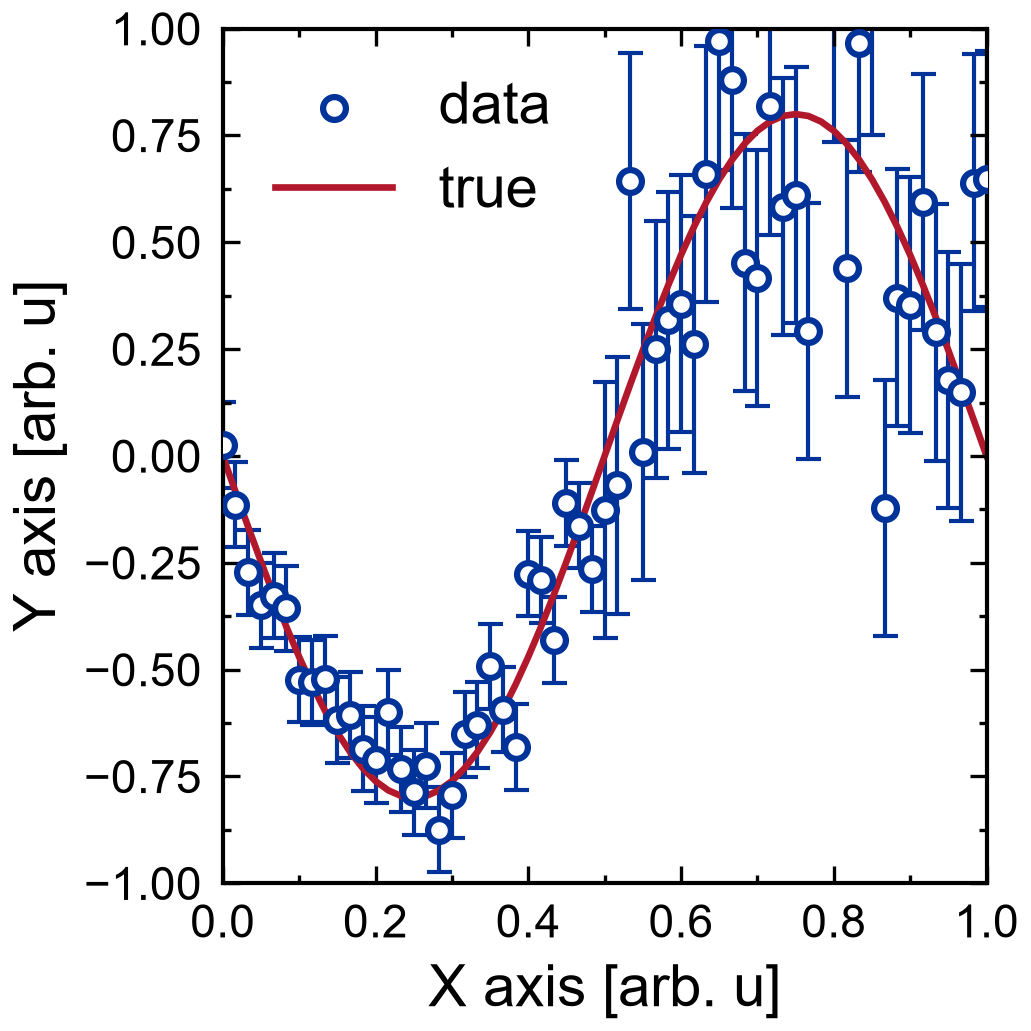
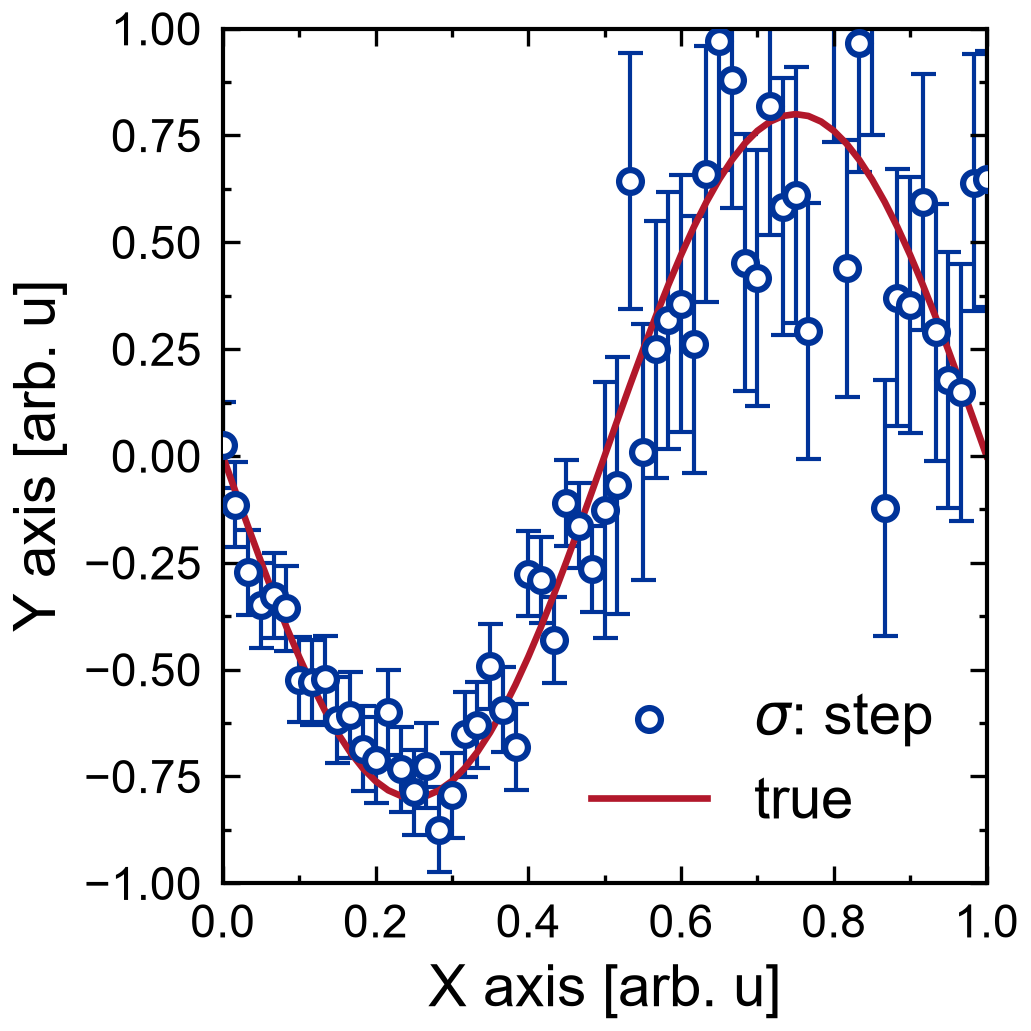
example_noise_models: name the noise form in each figure's legend
The noisy realisations were all labelled "data"; the legend now says which
noise term made them (sigma = 0.2, sigma: step, sigma: bathtub), in the
words of the sigma figure, and sits in the empty lower right. PNGs
regenerated and checked; CHANGELOG updated under Unreleased.

diff --git a/examples/example_noise_models.py b/examples/example_noise_models.py
@@ -43,7 +43,9 @@ plot_1d(
     fig_show=False,
 )
 
-# One noisy realisation per form, each in its own figure, with its sigma as error bars.
+# One noisy realisation per form, each in its own figure, with its sigma as error bars; the legend names
+# the form, so each figure can be read on its own.
+data_labels = {"number": r"$\sigma$ = 0.2", "array": r"$\sigma$: step", "function": r"$\sigma$: bathtub"}
 for (name, term), sigma in zip(forms.items(), sigmas):
     noisy = add_noise(signal, x, additive=term, seed=5)
     plot_1d(
@@ -51,10 +53,10 @@ for (name, term), sigma in zip(forms.items(), sigmas):
         yerr_data=[sigma, None],
         colors=[BLUE, RED], err_colors=[BLUE],
         line_show=[False, True], scatter_show=[True, False], line_styles=["-", "-"],
-        legend_labels=["data", "true"],
+        legend_labels=[data_labels[name], "true"],
         xlabel="X axis [arb. u]", ylabel="Y axis [arb. u]",
         xlim=(0.0, 1.0), ylim=(-1.0, 1.0),
-        legend_loc="upper left",
+        legend_loc="lower right",
         fig_aspect_ratio=(0.5, 0.5),
         save_path=f"{output_stem}_{name}.png",
         fig_show=False,

diff --git a/CHANGELOG.md b/CHANGELOG.md
@@ -9,6 +9,8 @@ fixes, minor for new features, major for changes that break existing scripts.
 - README: the example figures are grouped per script, each with a short
   explanation (Gaussian peak, complex data, noise models, grid, Monte Carlo,
   Lab C noise).
+- `example_noise_models.py`: the legend of each noisy figure names its noise
+  form (σ = 0.2, σ: step, σ: bathtub), so each figure can be read on its own.
 
 ## [0.1.0] - 2026-10-23
 
